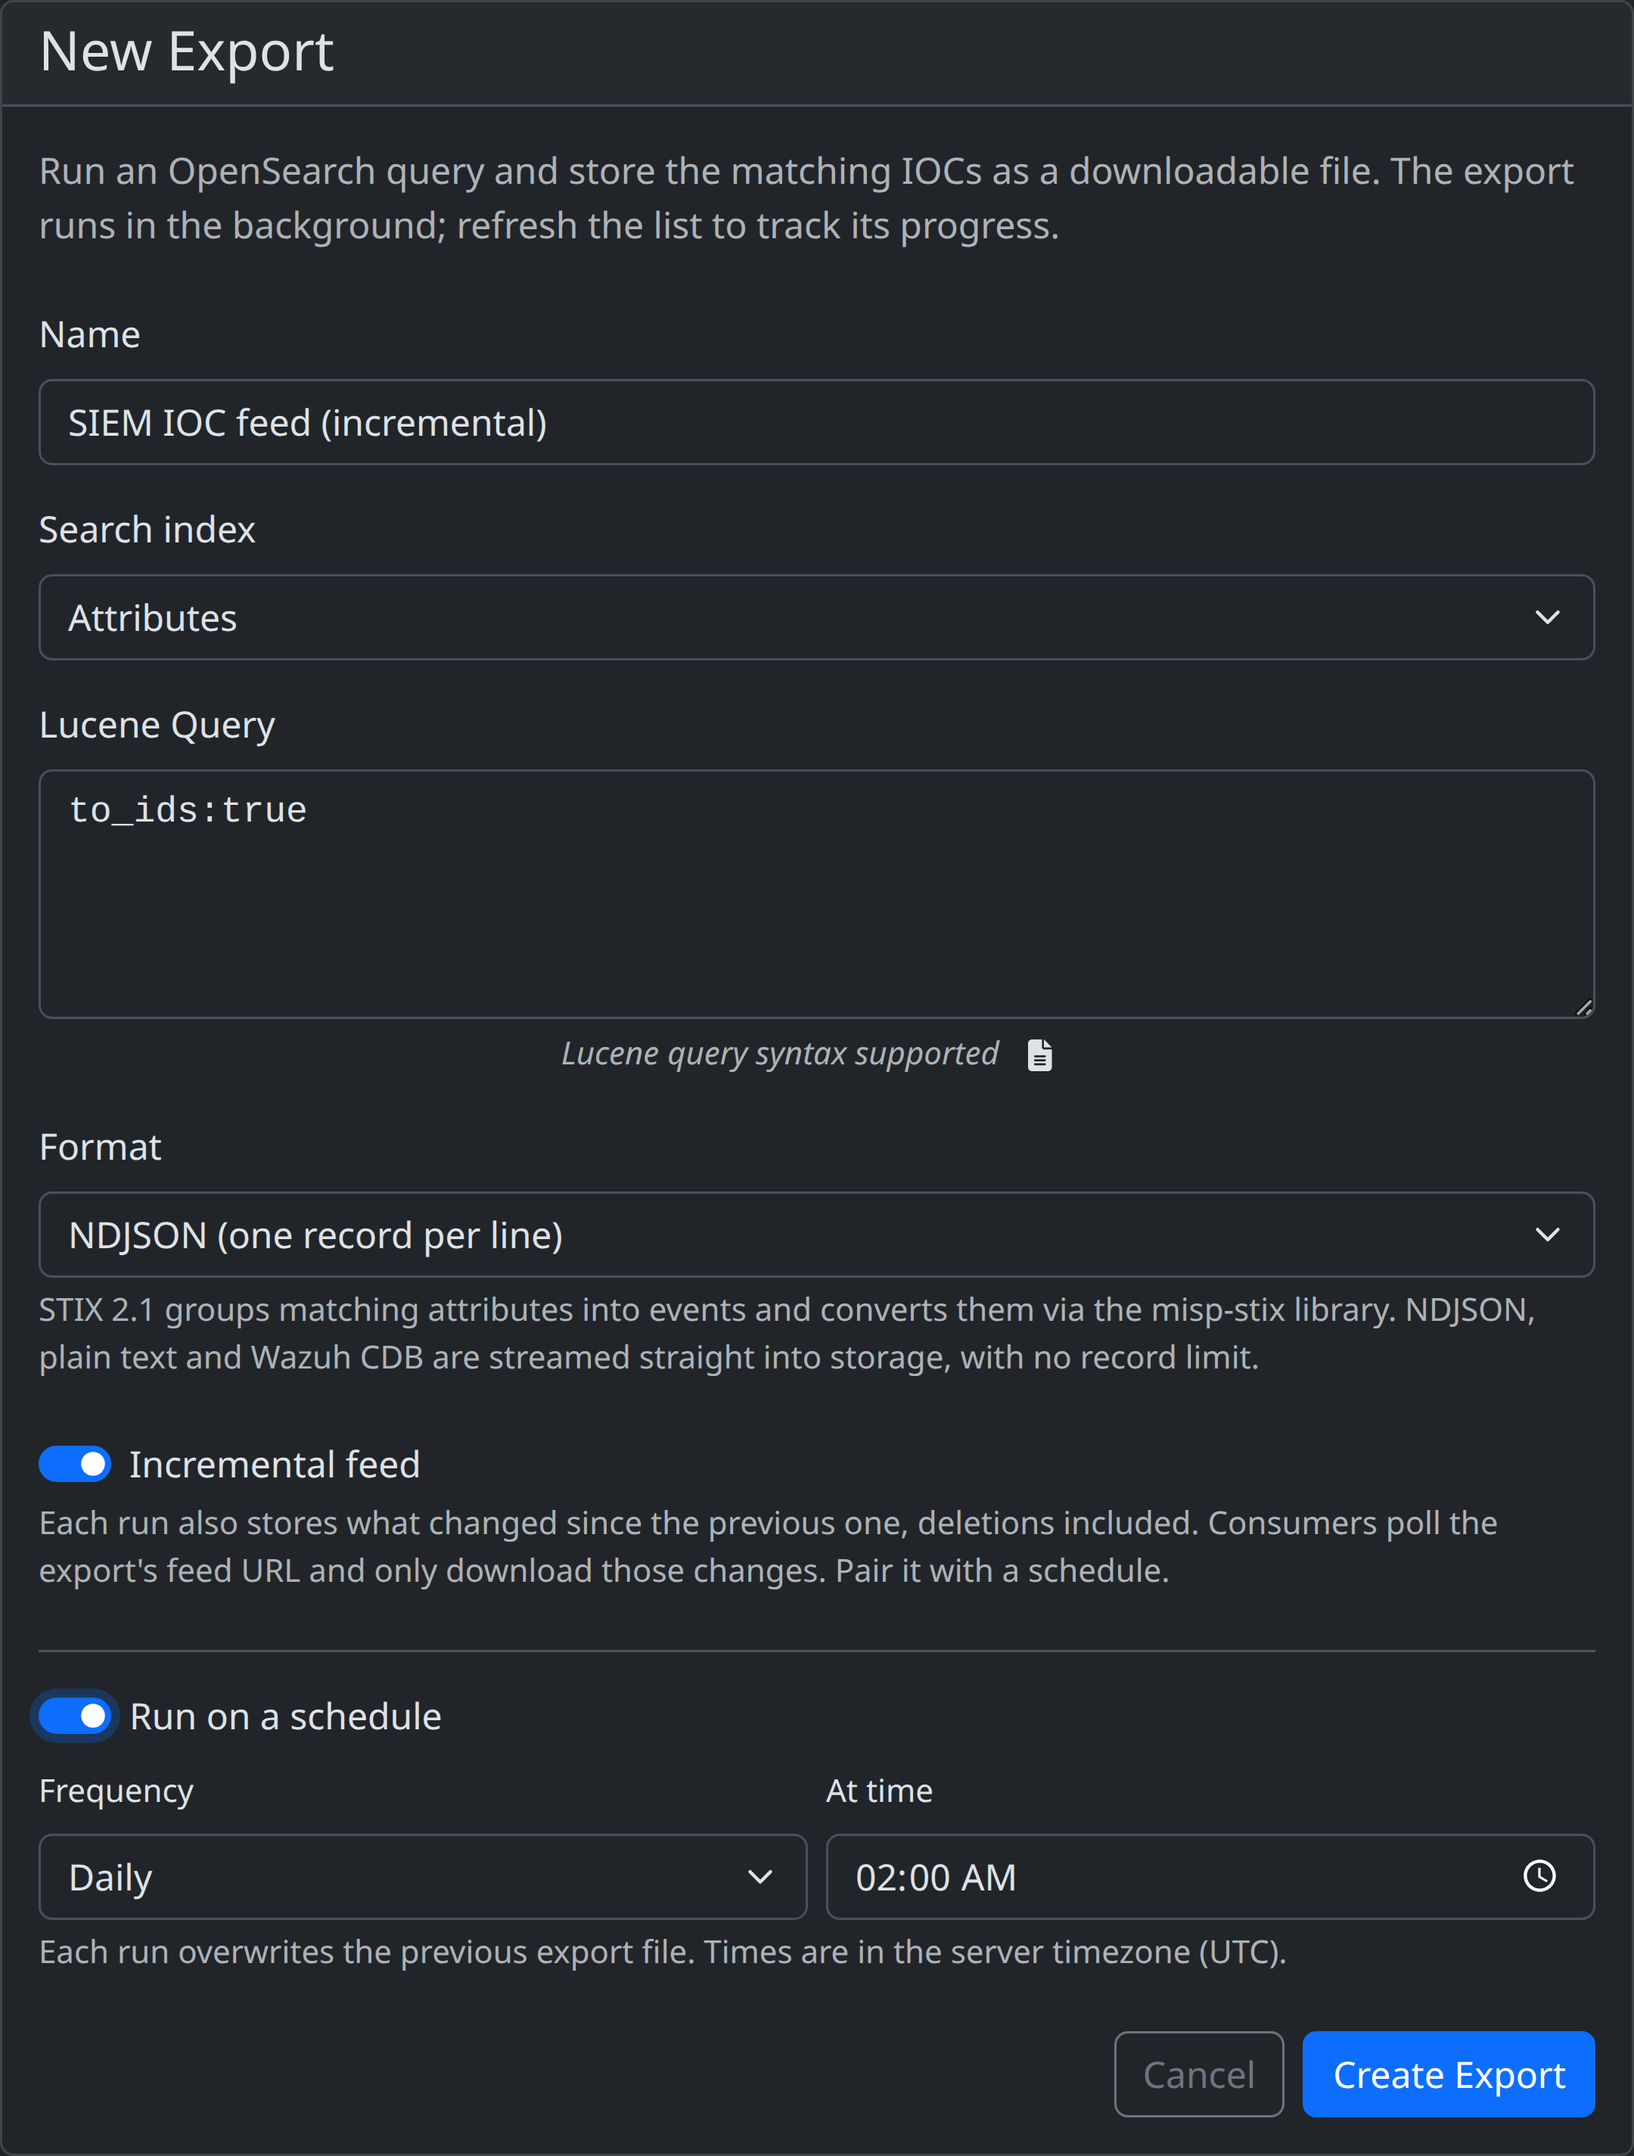
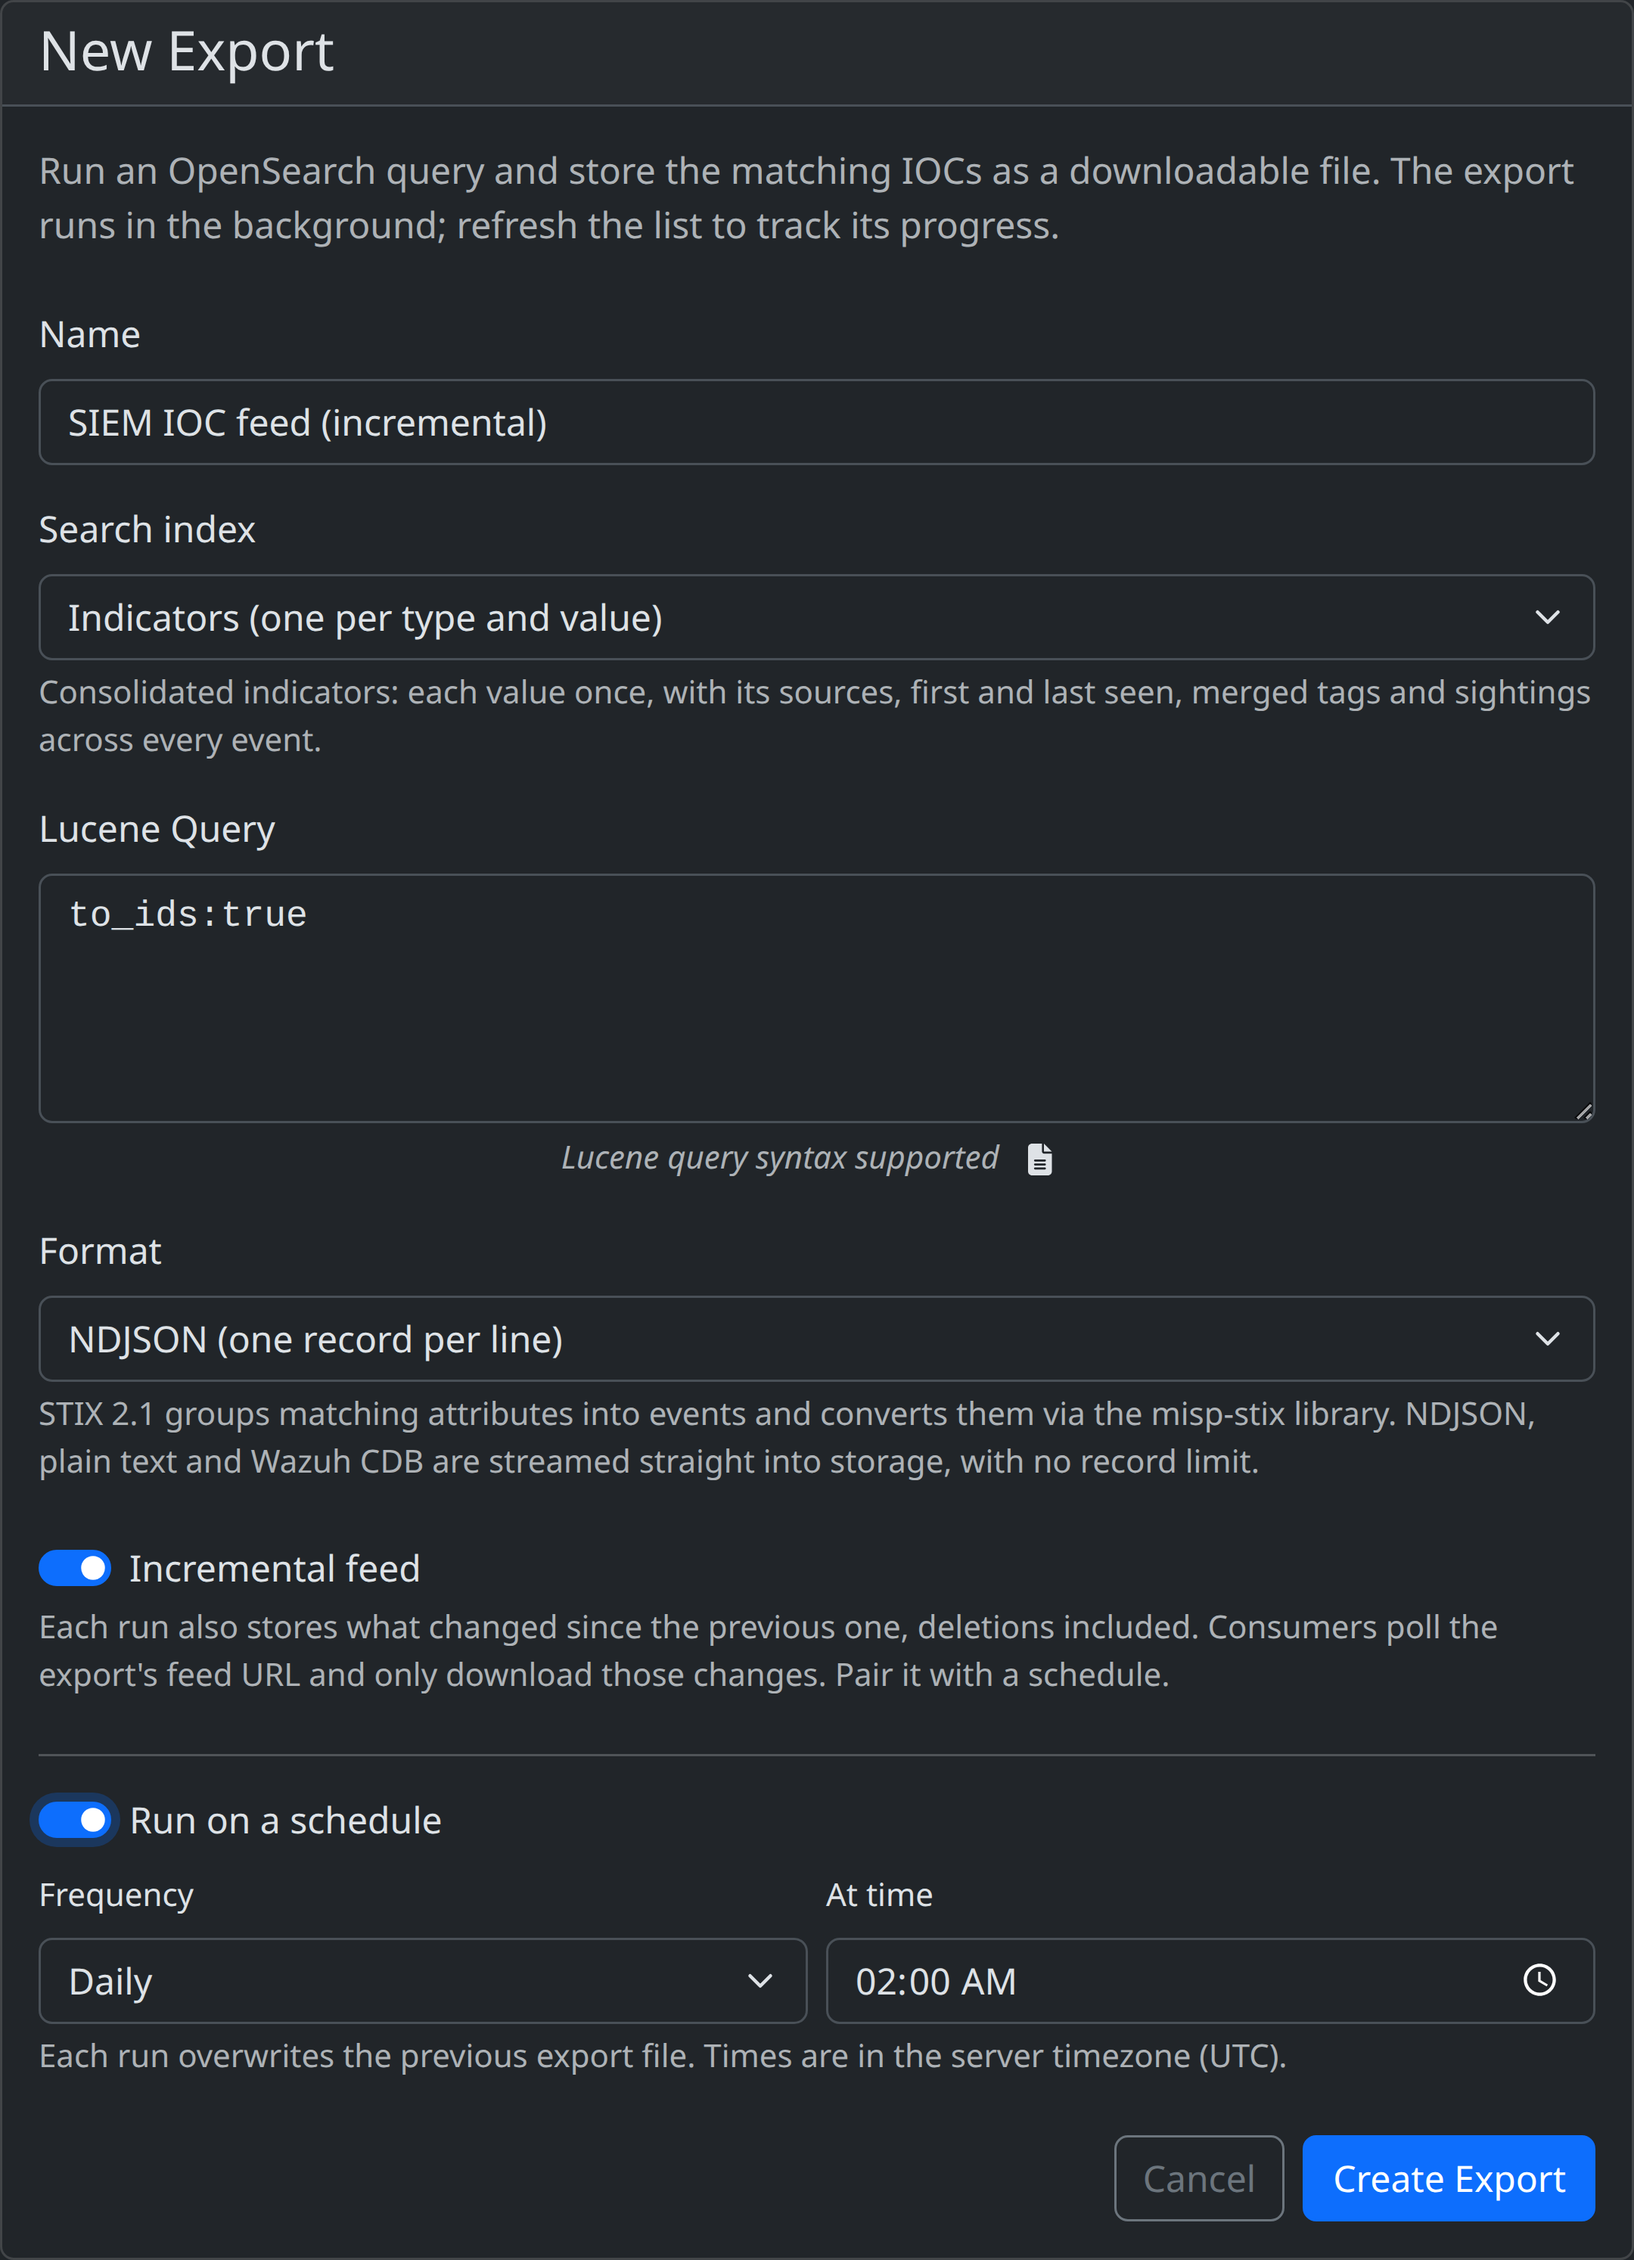
feat(exports): default new exports to consolidated indicators
The export form now starts on Indicators in NDJSON, and the Explore
"Save as export" modal offers Indicators and the streamed formats too
(it still starts on the tab being explored). The API default is
unchanged, so existing clients keep exporting attributes.

diff --git a/frontend/src/components/exports/AddExportModal.vue b/frontend/src/components/exports/AddExportModal.vue
@@ -43,11 +43,23 @@ const canSubmit = computed(
     (!isMisp.value || exportJob.distribution !== null),
 );
 
-const stixDisabled = computed(() => exportJob.index_target === "events");
+const isIndicators = computed(() => exportJob.index_target === "indicators");
+// Indicators are only written by the streamed exporter.
+const STREAMED_FORMATS = ["ndjson", "text", "cdb"];
+const stixDisabled = computed(() => exportJob.index_target !== "attributes");
+const recordFormatsDisabled = computed(() => isIndicators.value);
+// One value per line, so events have nothing to put there.
+const lineFormatsDisabled = computed(() => exportJob.index_target === "events");
 
 function onIndexTargetChange() {
+  if (isIndicators.value && !STREAMED_FORMATS.includes(exportJob.format)) {
+    exportJob.format = "ndjson";
+  }
   // STIX export of bare events carries no indicators; steer back to JSON.
   if (stixDisabled.value && exportJob.format === "stix") {
+    exportJob.format = "json";
+  }
+  if (lineFormatsDisabled.value && ["text", "cdb"].includes(exportJob.format)) {
     exportJob.format = "json";
   }
 }
@@ -57,6 +69,7 @@ function reset() {
   exportJob.query = props.initialQuery;
   exportJob.index_target = props.initialIndexTarget;
   exportJob.format = "json";
+  onIndexTargetChange();
   exportJob.distribution = null;
   scheduleModel.value = { schedule: null, schedule_enabled: false };
   apiError.value = null;
@@ -155,6 +168,9 @@ function close() {
               v-model="exportJob.index_target"
               @change="onIndexTargetChange"
             >
+              <option value="indicators">
+                Indicators (one per type and value)
+              </option>
               <option value="attributes">Attributes</option>
               <option value="events">Events</option>
             </select>
@@ -181,11 +197,22 @@ function close() {
               class="form-select"
               v-model="exportJob.format"
             >
-              <option value="json">JSON</option>
-              <option value="misp">JSON (MISP)</option>
-              <option value="csv">CSV</option>
+              <option value="json" :disabled="recordFormatsDisabled">
+                JSON
+              </option>
+              <option value="misp" :disabled="recordFormatsDisabled">
+                JSON (MISP)
+              </option>
+              <option value="csv" :disabled="recordFormatsDisabled">CSV</option>
               <option value="stix" :disabled="stixDisabled">
                 STIX 2.1{{ stixDisabled ? " (attributes only)" : "" }}
+              </option>
+              <option value="ndjson">NDJSON (one record per line)</option>
+              <option value="text" :disabled="lineFormatsDisabled">
+                Plain text, one value per line
+              </option>
+              <option value="cdb" :disabled="lineFormatsDisabled">
+                Wazuh CDB list
               </option>
             </select>
             <div class="form-text">

diff --git a/frontend/src/views/exports/AddExport.vue b/frontend/src/views/exports/AddExport.vue
@@ -11,8 +11,10 @@ const toastsStore = useToastsStore();
 const exportJob = reactive({
   name: "",
   query: "",
-  index_target: "attributes",
-  format: "json",
+  // Consolidated indicators by default: each value once, with its context,
+  // which is what security controls want.
+  index_target: "indicators",
+  format: "ndjson",
   distribution: null,
   incremental: false,
 });
@@ -124,11 +126,11 @@ function cancel() {
           v-model="exportJob.index_target"
           @change="onIndexTargetChange"
         >
-          <option value="attributes">Attributes</option>
-          <option value="events">Events</option>
           <option value="indicators">
             Indicators (one per type and value)
           </option>
+          <option value="attributes">Attributes</option>
+          <option value="events">Events</option>
         </select>
         <div v-if="isIndicators" class="form-text">
           Consolidated indicators: each value once, with its sources, first and

diff --git a/docs/features/exports.md b/docs/features/exports.md
@@ -61,7 +61,10 @@ can always fetch the same URL for the latest results.
 
 1. Go to ***internals*** → ***exports*** and click the ***+ New Export*** button.
 2. Give the export a name, pick the search index and format, and enter the
-   Lucene query. (Optional) Toggle ***Run on a schedule*** to make the export
+   Lucene query. New exports default to **Indicators** in NDJSON: each value
+   once, with its [consolidated context](indicators.md), which is what
+   security controls usually want. Switch to *Attributes* or *Events* for
+   raw records. (Optional) Toggle ***Run on a schedule*** to make the export
    recurring — see [Scheduling](#scheduling) below.
 
     <img src="../../screenshots/exports/misp-workbench-1_exports_new-export.png#only-light" style="height: 500px;">
